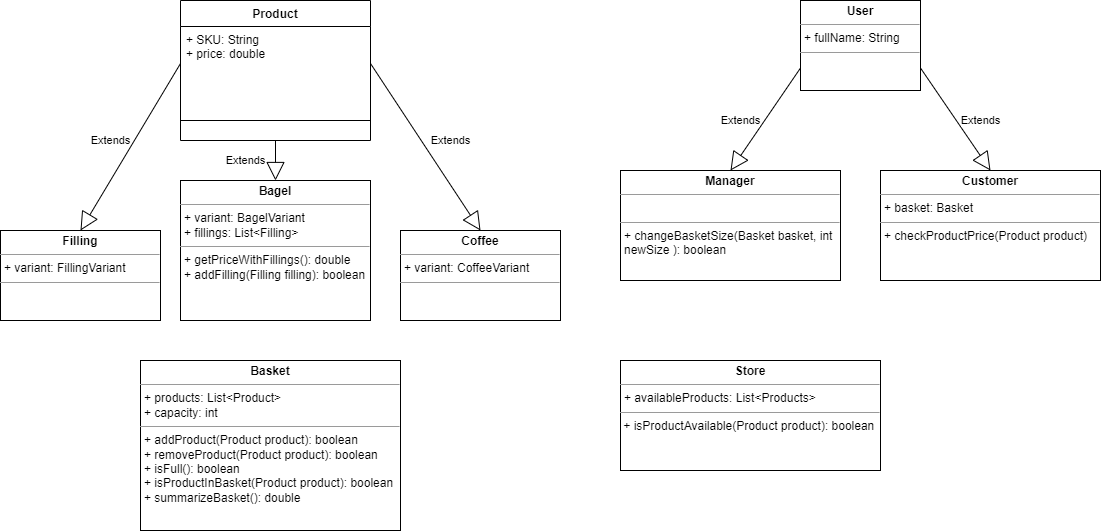
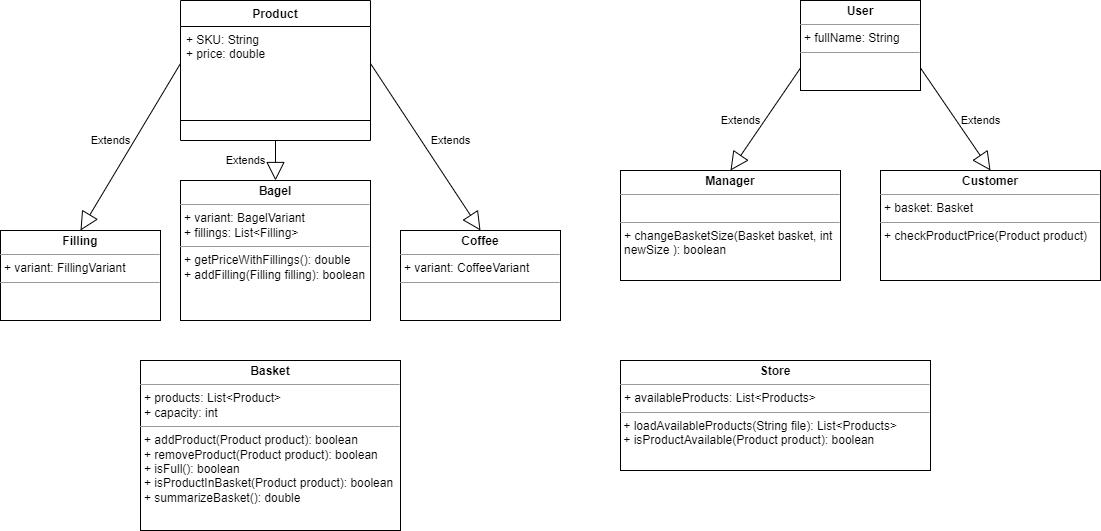
Update class-diagram and add Store as Singleton

Changed region(s): [[0.5559, 0.7834, 0.8029, 0.8437], [0.6485, 0.693, 0.7103, 0.7232]]

diff --git a/src/main/java/com/booleanuk/core/store/Store.java b/src/main/java/com/booleanuk/core/store/Store.java
@@ -1,0 +1,26 @@
+package com.booleanuk.core.store;
+
+import com.booleanuk.core.products.Product;
+
+import java.util.ArrayList;
+import java.util.List;
+
+public final class Store {
+
+    private static Store INSTANCE;
+    private List<Product> availableProducts;
+
+    public static Store getInstance() {
+        if (INSTANCE == null) {
+            INSTANCE = new Store();
+        }
+
+        return INSTANCE;
+    }
+
+
+    private List<Product> loadAvailableProducts(String file) {
+        return new ArrayList<Product>();
+    }
+
+}
